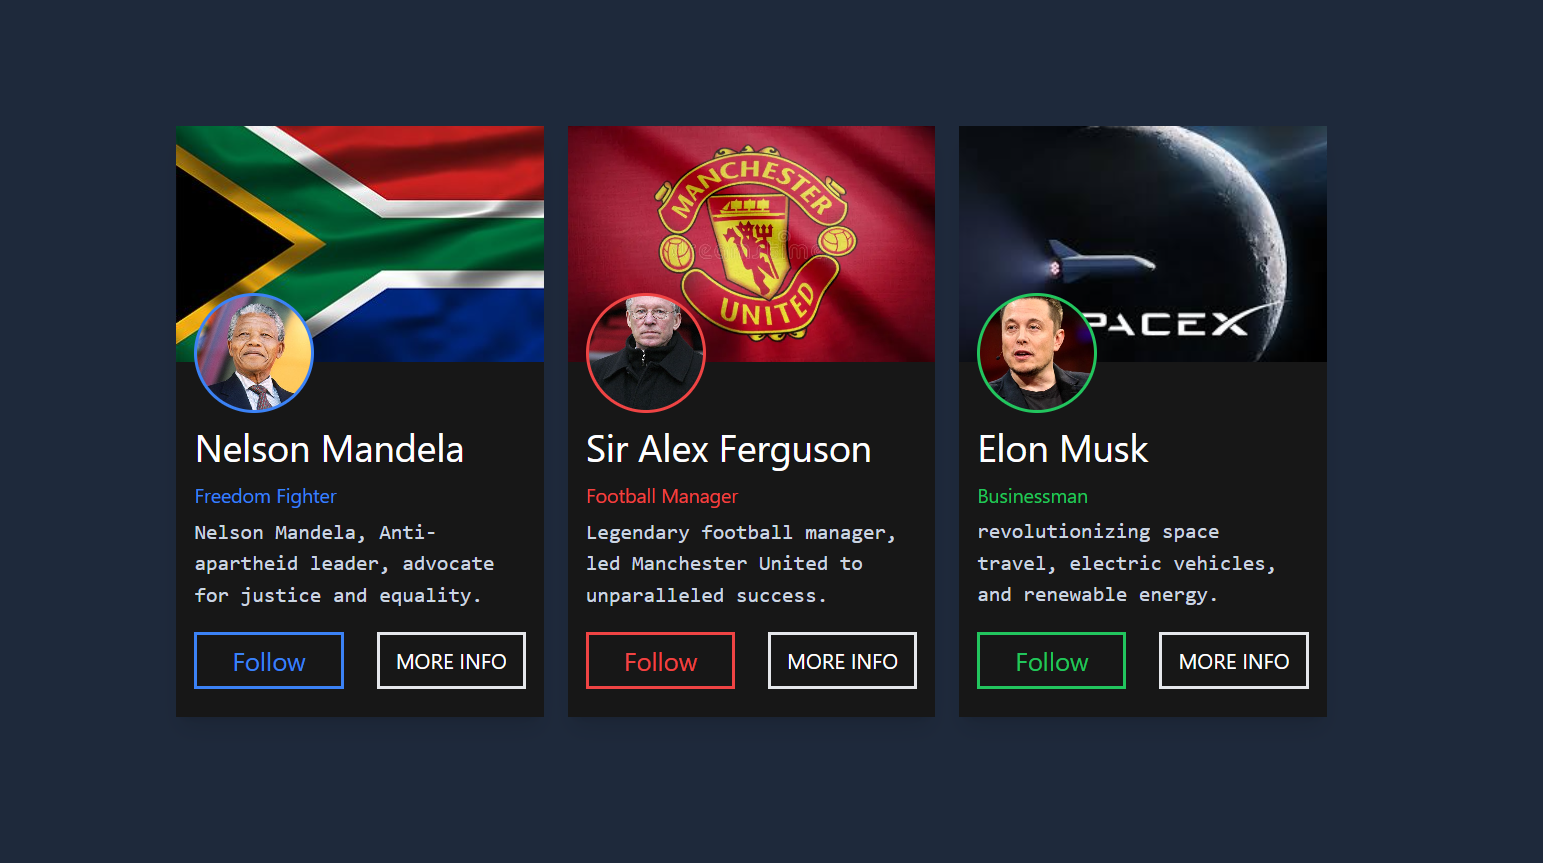
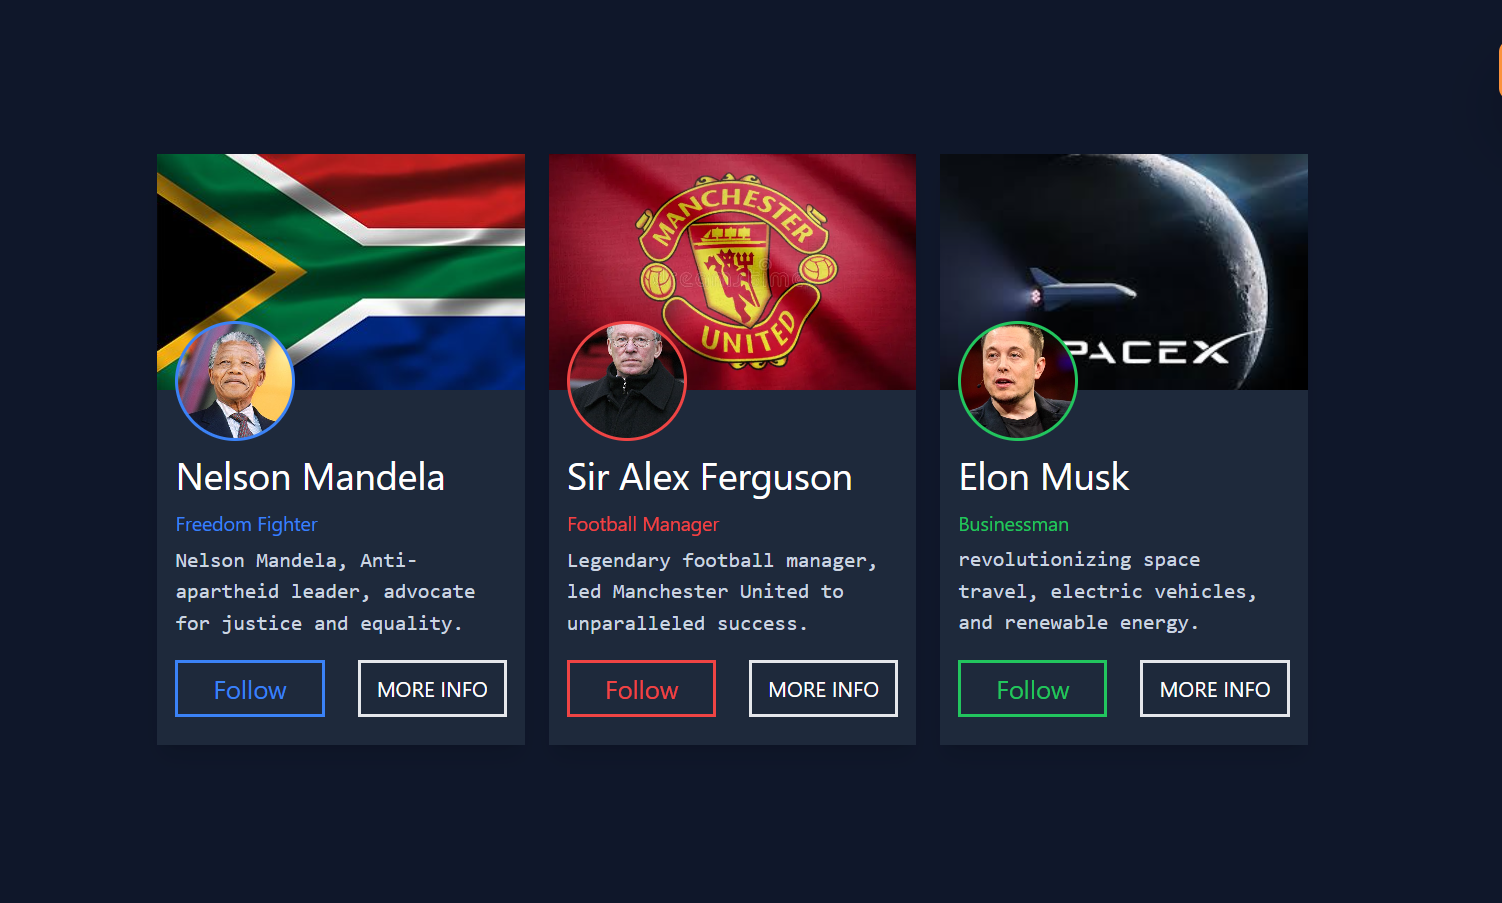
mobile responsiveness cpomplete

diff --git a/client/src/pages/home.jsx b/client/src/pages/home.jsx
@@ -22,10 +22,11 @@ import brownsidebar from '../images/brownsidebar.PNG'
 import colorscard from '../images/colorscard.PNG'  
 import codecard from '../images/codecard.PNG'  
 import cornorcard from '../images/cornorcard.PNG'  
-import citybox from '../images/citybox.PNG'  
+import citybox from '../images/citycard.PNG'  
 import topbox from '../images/topcard.PNG'  
 import avtcard from '../images/avtcard.PNG'  
 import human from '../images/human.PNG'  
+import snakepic from '../images/snakelogin.png'  
 import { GiHamburgerMenu } from "react-icons/gi";
 
 
@@ -82,7 +83,7 @@ const Home = () => {
   return (
     <div  className='w-full sm:h-screen h-[260vh] bg-gray-900    flex overflow-hidden'>
       <button onClick={handlesidebar}  className='   fixed sm:hidden z-10  bg-orange-500 text-white text-[25px] mt-5 ml-[85vw] w-[35px] h-[35px] rounded-xl flex justify-center items-center'><GiHamburgerMenu /></button>
-      <div style={{marginLeft:`${sideleftmar}`}} className='pt-10 h-screen min-w-[90vw] fixed z-1  transition-all ease-in-out duration-500   sm:hidden bg-gray-950   justify-center items-start  pl-5 rounded-r-lg flex-col gap-2'>
+      <div style={{marginLeft:`${sideleftmar}`}} className='pt-10 h-screen min-w-[90vw] fixed z-1  transition-all ease-in-out duration-500   sm:hidden bg-gray-950   justify-center items-center  pl-5 rounded-r-lg flex-col gap-2'>
       <Link to='https://yomiyou.onrender.com' className=' flex w-[90%] h-[55px] justify-start pl-8 items-center text-md gap-6 rounded-lg bg-gray-700 text-white '><BiArrowBack className='text-orange-400 text-xl' /> Finish Tour</Link>
        <hr className='w-[90%] border-[1px]  border-orange-400'/><br />
         <span className='text-white flex justify-center items-center w-[90%] mb-3 '>Components</span> 
@@ -128,12 +129,9 @@ const Home = () => {
               <Link to="/movingsignin" className='w-full h-[70%] bg-cover bg-center bg-no-repeat' style={{ backgroundImage: `url(${movable})` }}></Link>
               <div className='w-full h-[30%] bg-slate-800 text-sm p-2 text-slate-200 text-wrap'>This is a login page with a multiple three glowing  ringes that rotate  around the login form .</div>
            </div>    
-            <div className='border-8 border-gray-800 bg-red-700 flex flex-col '>
-              <Link to="/snakelogin" className='w-full h-[70%] bg-cover bg-center bg-no-repeat' style={{ backgroundImage: `url(${bluesidebar1})` }}></Link>
-              <div className='w-full h-[30%] bg-slate-800 text-sm p-2 text-slate-200 text-wrap'>This is a login page with a background that have individual components that change color when hovered.</div>
-           </div>
+           
            <div className='border-8 border-gray-800 bg-red-700 flex flex-col '>
-              <Link to="/purplelogin" className='w-full h-[70%] bg-cover bg-center bg-no-repeat' style={{ backgroundImage: `url(${purplesign})` }}></Link>
+              <Link to="/purplelogin" className='w-full h-[70%] bg-cover bg-center bg-no-repeat' style={{ backgroundImage: `url(${snakepic})` }}></Link>
               <div className='w-full h-[30%] bg-slate-800 text-sm p-2 text-slate-200 text-wrap'>This is a login page with a multiple three glowing  ringes that rotate  around the login form .</div>
            </div>
 
@@ -142,7 +140,7 @@ const Home = () => {
               <div className='w-full h-[30%] bg-slate-800 text-sm p-2 text-slate-200 text-wrap'>This is a login page with a multiple three glowing  ringes that rotate  around the login form .</div>
            </div>  
            <div className='border-8 border-gray-800 bg-red-700 flex flex-col '>
-              <Link to="/switchlogin" className='w-full h-[70%] bg-cover bg-center bg-no-repeat' style={{ backgroundImage: `url(${bluetoplogin})` }}></Link>
+              <Link to="/switchlogin" className='w-full h-[70%] bg-cove bg-center bg-no-repeat' style={{ backgroundImage: `url(${bluetoplogin})` }}></Link>
               <div className='w-full h-[30%] bg-slate-800 text-sm p-2 text-slate-200 text-wrap'>This is a login page with a multiple three glowing  ringes that rotate  around the login form .</div>
            </div>           
            <div className='border-8 border-gray-800 bg-red-700 flex flex-col '>
@@ -246,7 +244,7 @@ const Home = () => {
               <div className='w-full h-[30%] bg-slate-800 text-sm p-2 text-slate-200 text-wrap'>This is a login page with a multiple three glowing  ringes that rotate  around the login form .</div>
            </div>    
             <div className='border-8 border-gray-800 bg-red-700 flex flex-col '>
-              <Link to="/snakelogin" className='w-full h-[70%] bg-cover bg-center bg-no-repeat' style={{ backgroundImage: `url(${glowimg})` }}></Link>
+              <Link to="/snakelogin" className='w-full h-[70%] bg-cover bg-center bg-no-repeat' style={{ backgroundImage: `url(${snakepic})` }}></Link>
               <div className='w-full h-[30%] bg-slate-800 text-sm p-2 text-slate-200 text-wrap'>This is a login page with a background that have individual components that change color when hovered.</div>
            </div>
            <div className='border-8 border-gray-800 bg-red-700 flex flex-col '>

diff --git a/client/src/pages/topcard.jsx b/client/src/pages/topcard.jsx
@@ -1,10 +1,7 @@
 import React from 'react'
-import tokyo from '../images/tokyo.jpg'
-import newyork from '../images/newyork.jpg'
-import sheger from '../images/addisabeba.jpg'
+
 import man1 from '../images/madiba.jpg'
-import man2 from '../images/man2.webp'
-import man3 from '../images/man3.webp'
+
 import south from '../images/southafr.jpg'
 import fergi from '../images/fergi.jpg'
 import manun from '../images/manunited.webp'
@@ -16,11 +13,11 @@ function Shadowcard() {
   return (
     <>
     <Back />
-    <div className='w-full sm:h-screen h-[200vh] py-5 sm:py-0 bg-slate-800 flex justify-center items-center'>
+    <div className='w-full sm:h-screen h-[200vh] py-5 sm:py-0 bg-slate-900 flex justify-center items-center'>
         <div className='sm:w-[60%] w-[90%] h-full sm:h-[65%]  grid gap-4 grid-rows-3 sm:grid-rows-1 sm:grid-cols-3'>
             <div className='bg-white  shadow-lg  flex  overflow-hidden flex-col'>
                 <div className='w-full h-[40%]  bg-cover bg-no-repeat bg-center ' style={{backgroundImage:`url(${south})`}}></div>
-                <div className='w-full h-[60%] bg-neutral-900 gap-1  p-3  flex flex-col   justify-start pt-5'>
+                <div className='w-full h-[60%] bg-slate-800 gap-1  p-3  flex flex-col   justify-start pt-5'>
                   <div className='w-[80px] mt-[-30%] min-h-[80px] bg-center bg-cover  bg-no-repeat rounded-full   border-[2px] border-blue-500' style={{backgroundImage:`url(${man1})`}}></div>
 <h1 className=' text-white text-[25px] '>
 Nelson Mandela</h1>
@@ -28,8 +25,8 @@ Nelson Mandela</h1>
 <p className='text-[14px] text-slate-300 text-left font-mono h-[30%] overflow-hidden  '>Nelson Mandela,
  Anti-apartheid leader, advocate for justice and equality.</p>
 <div className=' mt-3 flex justify-between  gap-2'>
-  <button className= 'border-2 border-blue-500 text-blue-500 bg-neutral-900  py-1  text-[17px] w-[45%]'>Follow</button>
-  <button className= 'border-2  text-white bg-neutral-900  py-1  text-[14px] w-[45%]'>MORE INFO</button>
+  <button className= 'border-2 border-blue-500 text-blue-500 bg-slate-800  py-1  text-[17px] w-[45%]'>Follow</button>
+  <button className= 'border-2  text-white bg-slate-800  py-1  text-[14px] w-[45%]'>MORE INFO</button>
   </div>
 
 
@@ -38,7 +35,7 @@ Nelson Mandela</h1>
             </div>
             <div className='bg-white  shadow-lg  flex  overflow-hidden flex-col'>
                 <div className='w-full h-[40%]  bg-cover bg-no-repeat bg-center ' style={{backgroundImage:`url(${manun})`}}></div>
-                <div className='w-full h-[60%] bg-neutral-900 gap-1  p-3  flex flex-col   justify-start pt-5'>
+                <div className='w-full h-[60%] bg-slate-800 gap-1  p-3  flex flex-col   justify-start pt-5'>
                   <div className='w-[80px] mt-[-30%] min-h-[80px] bg-center bg-cover  bg-no-repeat rounded-full   border-[2px] border-red-500' style={{backgroundImage:`url(${fergi})`}}></div>
 <h1 className=' text-white text-[25px] '>Sir Alex Ferguson</h1>
 <p className='text-[13px] text-red-500'>Football Manager</p>
@@ -50,8 +47,8 @@ Nelson Mandela</h1>
 
 </p>
 <div className=' mt-3 flex justify-between  gap-2'>
-  <button className= 'border-2 border-red-500 text-red-500 bg-neutral-900  py-1  text-[17px] w-[45%]'>Follow</button>
-  <button className= 'border-2  text-white bg-neutral-900  py-1  text-[14px] w-[45%]'>MORE INFO</button>
+  <button className= 'border-2 border-red-500 text-red-500 bg-slate-800  py-1  text-[17px] w-[45%]'>Follow</button>
+  <button className= 'border-2  text-white bg-slate-800  py-1  text-[14px] w-[45%]'>MORE INFO</button>
   </div>
 
 
@@ -63,14 +60,14 @@ Nelson Mandela</h1>
           
             <div className='bg-white  shadow-lg  flex  overflow-hidden flex-col'>
                 <div className='w-full h-[40%]  bg-cover bg-no-repeat bg-center ' style={{backgroundImage:`url(${spacex})`}}></div>
-                <div className='w-full h-[60%] bg-neutral-900 gap-1  p-3  flex flex-col   justify-start pt-5'>
+                <div className='w-full h-[60%] bg-slate-800 gap-1  p-3  flex flex-col   justify-start pt-5'>
                   <div className='w-[80px] mt-[-30%] min-h-[80px] bg-center bg-cover  bg-no-repeat rounded-full border-[2px] border-green-500 ' style={{backgroundImage:`url(${elon})`}}></div>
 <h1 className=' text-white text-[25px] '> Elon Musk </h1>
 <p className='text-[13px] text-green-500'>Businessman</p>
 <p className='text-[14px] text-slate-300 text-left h-[30%] overflow-hidden font-mono'>revolutionizing space travel, electric vehicles, and renewable energy.  </p>
 <div className=' mt-3 flex justify-between  gap-2'>
-  <button className= 'border-2 border-green-500 text-green-500 bg-neutral-900  py-1  text-[17px] w-[45%]'>Follow</button>
-  <button className= 'border-2  text-white bg-neutral-900  py-1  text-[14px] w-[45%]'>MORE INFO</button>
+  <button className= 'border-2 border-green-500 text-green-500 bg-slate-800  py-1  text-[17px] w-[45%]'>Follow</button>
+  <button className= 'border-2  text-white bg-slate-800  py-1  text-[14px] w-[45%]'>MORE INFO</button>
   </div>
 
 

diff --git a/client/src/pages/cornorcard.jsx b/client/src/pages/cornorcard.jsx
@@ -8,9 +8,9 @@ function Cornorcard
   return (
     <>
     <Back />
-    <div className='w-full h-[150vh] sm:h-screen bg-neutral-800 flex justify-center items-center'>
+    <div className='w-full h-[150vh] sm:h-screen bg-slate-900 flex justify-center items-center'>
         <div className='sm:w-[65%] w-[90%] h-[90%] sm:h-[60%]  grid  grid-rows-3 sm:grid-rows-1   sm:grid-cols-3 gap-3'>
-            <div className=' border-[8px] border-[#269ff6] bg-neutral-800 rounded-[15px] rounded-tl-[70px] overflow-hidden '>
+            <div className=' border-[8px] border-[#269ff6] bg-slate-900 rounded-[15px] rounded-tl-[70px] overflow-hidden '>
 <div className=' w-full h-[40%] flex justify-start items-start'>
     <div className='w-[50%] h-full  border-[#269ff6]   border-[8px] rounded-tl-[40%] rounded-br-[50%] flex justify-center items-center'>
     <FaPenNib className='text-[70px] text-[#269ff6]'/>
@@ -20,10 +20,10 @@ function Cornorcard
 <div className='w-full h-[60%] flex flex-col items-center justify-center gap-2 p-2'>
     <h1 className='text-white font-bold font-sans text-[25px]'>DESIGN</h1>
     <p className='text-white font-sans text-center '> Lorovident dict dolor sit amet consectetur adipisicitis eum numquam? aepe accusantium a molestiae ipsum. ex.</p>
-    <button className='text-[23px]  rounded-xl font-bold text-neutral-800 bg-[#269ff6] p-2 w-[50%] h[35px]'>Design</button>
+    <button className='text-[23px]  rounded-xl font-bold text-slate-900 bg-[#269ff6] p-2 w-[50%] h[35px]'>Design</button>
 </div>
             </div>
-            <div className=' border-[8px] border-[#ff206b] bg-neutral-800 rounded-[15px] rounded-tl-[70px] overflow-hidden '>
+            <div className=' border-[8px] border-[#ff206b] bg-slate-900 rounded-[15px] rounded-tl-[70px] overflow-hidden '>
 <div className=' w-full h-[40%] flex justify-start items-start'>
     <div className='w-[50%] h-full  border-[#ff206b]   border-[8px] rounded-tl-[40%] rounded-br-[50%] flex justify-center items-center'>
     <FaRocket className='text-[70px] text-[#ff206b]'/>
@@ -33,10 +33,10 @@ function Cornorcard
 <div className='w-full h-[60%] flex flex-col items-center justify-center gap-2 p-2'>
     <h1 className='text-white font-bold font-sans text-[25px]'>DESIGN</h1>
     <p className='text-white font-sans text-center '> Lorovident dict dolor sit amet consectetur adipisicitis eum numquam? aepe accusantium a molestiae ipsum. ex.</p>
-    <button className='text-[23px]  rounded-xl font-bold text-neutral-800 bg-[#ff206b] p-2 w-[50%] h[35px]'>Design</button>
+    <button className='text-[23px]  rounded-xl font-bold text-slate-900 bg-[#ff206b] p-2 w-[50%] h[35px]'>Design</button>
 </div>
             </div>
-            <div className=' border-[8px] border-[#99fe26] bg-neutral-800 rounded-[15px] rounded-tl-[70px] overflow-hidden '>
+            <div className=' border-[8px] border-[#99fe26] bg-slate-900 rounded-[15px] rounded-tl-[70px] overflow-hidden '>
 <div className=' w-full h-[40%] flex justify-start items-start'>
     <div className='w-[50%] h-full  border-[#99fe26]   border-[8px] rounded-tl-[40%] rounded-br-[50%] flex justify-center items-center'>
     <GiBearFace className='text-[70px] text-[#99fe26]'/>
@@ -46,7 +46,7 @@ function Cornorcard
 <div className='w-full h-[60%] flex flex-col items-center justify-center gap-2 p-2'>
     <h1 className='text-white font-bold font-sans text-[25px]'>DESIGN</h1>
     <p className='text-white font-sans text-center '> Lorovident dict dolor sit amet consectetur adipisicitis eum numquam? aepe accusantium a molestiae ipsum. ex.</p>
-    <button className='text-[23px]  rounded-xl font-bold text-neutral-800 bg-[#99fe26] p-2 w-[50%] h[35px]'>Design</button>
+    <button className='text-[23px]  rounded-xl font-bold text-slate-900 bg-[#99fe26] p-2 w-[50%] h[35px]'>Design</button>
 </div>
             </div>
         </div>

diff --git a/client/src/pages/rotatingsignin.jsx b/client/src/pages/rotatingsignin.jsx
@@ -3,7 +3,7 @@ import Back from './back';
 const Rotatingsignin = () => {
     return (
         <><Back />
-        <div className='w-full h-[100%] bg-gray-900 flex justify-center items-center rounded-lg'>
+        <div className='w-full h-screen bg-gray-900 flex justify-center items-center rounded-lg'>
             <div className=' overflow-hidden sm:w-[30%] w-[90%] h-[70%] rounded-lg bg-gray-950 flex justify-center items-center'>
                 <div className='h-[1000px] w-[80%] rotating-div grid grid-rows-2'>
                 <div className='bg-gradient-to-r from-gray-950 to-pink-600 '></div>
@@ -11,7 +11,7 @@ const Rotatingsignin = () => {
                    
                     
                 </div>
-                <div className='absolute sm:h-[69vw] h-[69vh] sm:w-[29.5vw]  w-[89vw] bg-gray-900 rounded-lg gap-3 pt-4 px-8 grid grid-rows-5'>
+                <div className='absolute sm:h-[69vh] h-[69.5vh] sm:w-[29.5vw]  w-[89vw] bg-gray-900 rounded-lg gap-3 pt-4 px-8 grid grid-rows-5'>
                     <p className='text-2xl text-white font-sans flex justify-center ' >Sign In</p>
                     <div  >
                         <p className=' text-gray-100 '>Username</p>

diff --git a/client/src/pages/movingsignin.jsx b/client/src/pages/movingsignin.jsx
@@ -39,8 +39,8 @@ const Movingsignin = () => {
     }
 
 
-    return (<> <Back  />
-        <div className='w-full h-screen flex justify-center items-center'> 
+    return (<> <Back className='z-20' />
+        <div className=' z-[5] w-full h-screen flex justify-center items-center'> 
             <div id='jskdfh' className='sm:w-[50%] w-[80%] sm:h-[75%]  h-[90vh]  transition-all  ease-in-out duration-500  shadow-lg flex sm:flex-row flex-col  shadow-gray-700'>
                 
                 
@@ -93,7 +93,7 @@ const Movingsignin = () => {
                          
                          </> ) } 
                </div>
-               <div id='onee' style={{marginTop:`${ marginTop}` }} className='gap-4 z-[1]  sm:hidden transition-all flex flex-col justify-center items-center ease-in-out duration-300 absolute  w-[80%]  h-[45vh]  bg-gradient-to-r from-red-500 to-pink-600'>
+               <div id='onee' style={{marginTop:`${ marginTop}` }} className='gap-4 z-[10]  sm:hidden transition-all flex flex-col justify-center items-center ease-in-out duration-300 absolute  w-[80%]  h-[45vh]  bg-gradient-to-r from-red-500 to-pink-600'>
 
                  { 
                   leftslider && (<>

diff --git a/client/src/pages/back.jsx b/client/src/pages/back.jsx
@@ -4,7 +4,7 @@ import { Link } from 'react-router-dom';
 const Back = () => {
     return (
         <div>
-            <Link to='/' className='z-200 text-[17px] shadow-2xl shadow-black h-[80px] rounded-full w-[80px] sm:h-[40px] fixed sm:w-[100px]  p-1 bg-orange-400 text-md text-white flex justify-center items-center gap-3 sm:rounded-lg ml-[75%] mt-[88vh] sm:ml-[90%] sm:mt-[30px]'><BiArrowBack />Back</Link>
+            <Link to='/' className='z-200 text-[17px] shadow-2xl  shadow-black h-[80px] rounded-full w-[80px] sm:h-[40px] fixed sm:w-[100px]  p-1 bg-orange-400 text-md text-white flex justify-center items-center gap-1 sm:rounded-lg ml-[75%] mt-[85vh] sm:ml-[90%] sm:mt-[30px]'><BiArrowBack />Back</Link>
         </div>
     );
 }

diff --git a/client/src/pages/shadowcard.jsx b/client/src/pages/shadowcard.jsx
@@ -7,7 +7,7 @@ function Shadowcard() {
   return (
     <>
     <Back />
-    <div className='w-full sm:h-screen h-[180vh] sm:py-0 py-5 bg-white flex justify-center items-center'>
+    <div className='w-full sm:h-screen h-[180vh] bg-slate-900 sm:py-0 py-5  flex justify-center items-center'>
         <div className='sm:w-[60%] sm:h-[65%] h-full w-[90%]   grid gap-4 grid-rows-3 sm:grid-rows-1 sm:grid-cols-3'>
             <div className='bg-white rounded-2xl shadow-lg shadow-black flex  overflow-hidden flex-col'>
                 <div className='w-full h-[40%]  bg-cover bg-no-repeat bg-center ' style={{backgroundImage:`url(${tokyo})`}}></div>

diff --git a/client/src/pages/codecards.jsx b/client/src/pages/codecards.jsx
@@ -8,7 +8,7 @@ function Codecards() {
   return (
     <>
     <Back />
-    <div className='w-full sm:h-screen h-[200vh] py-3  bg-gray-400 flex justify-center items-center'>
+    <div className='w-full sm:h-screen h-[200vh] py-3   bg-slate-900 flex justify-center items-center'>
         <div className='sm:w-[80%] w-[90%] h-[100%] sm:h-[65%] grid grid:rows-4 sm:grid-rows-1   sm:grid-cols-4 gap-6'>
             
             <div className='bg-white rounded-[30px]  p-1 flex   flex-col items-center '>
